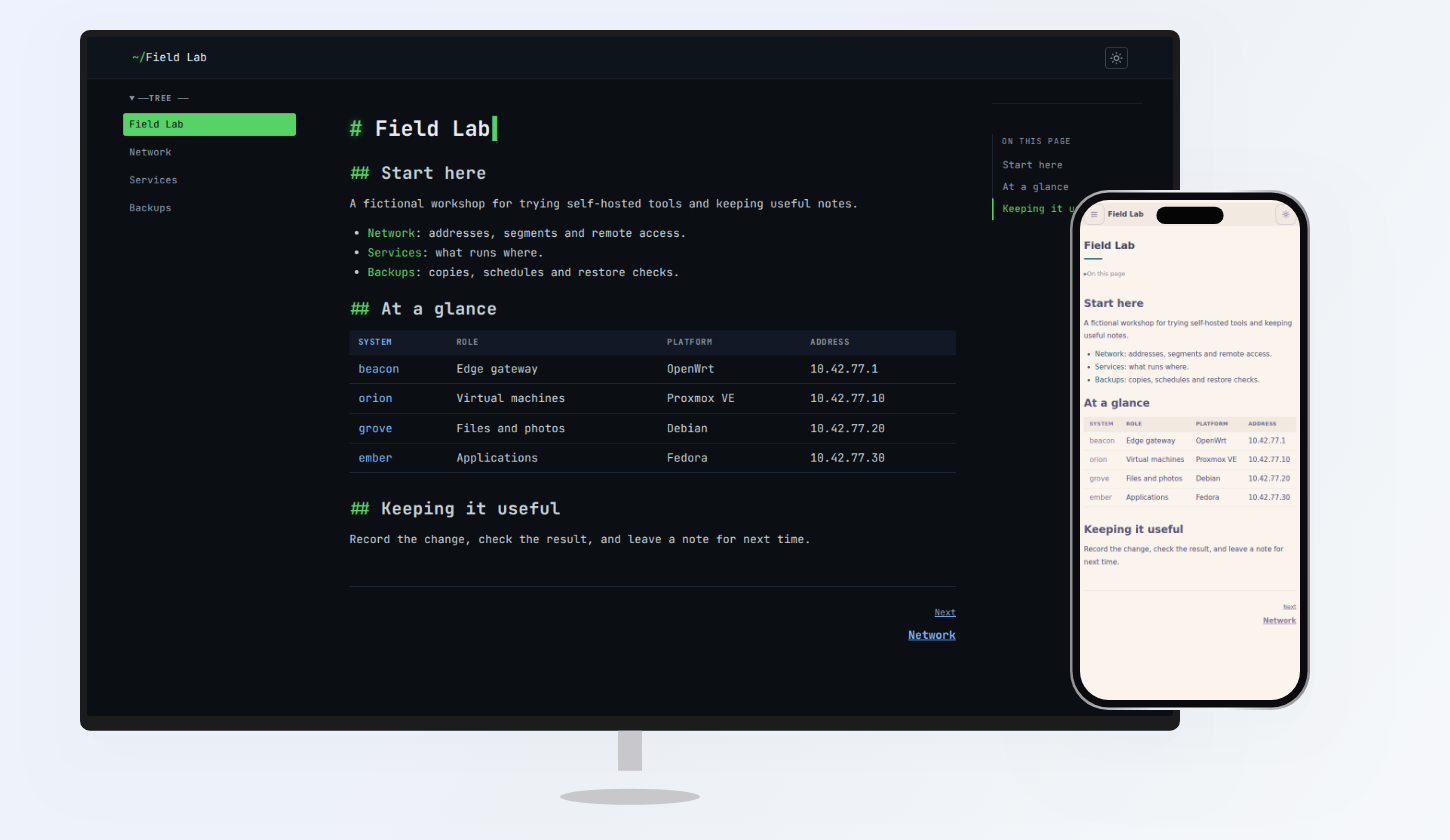
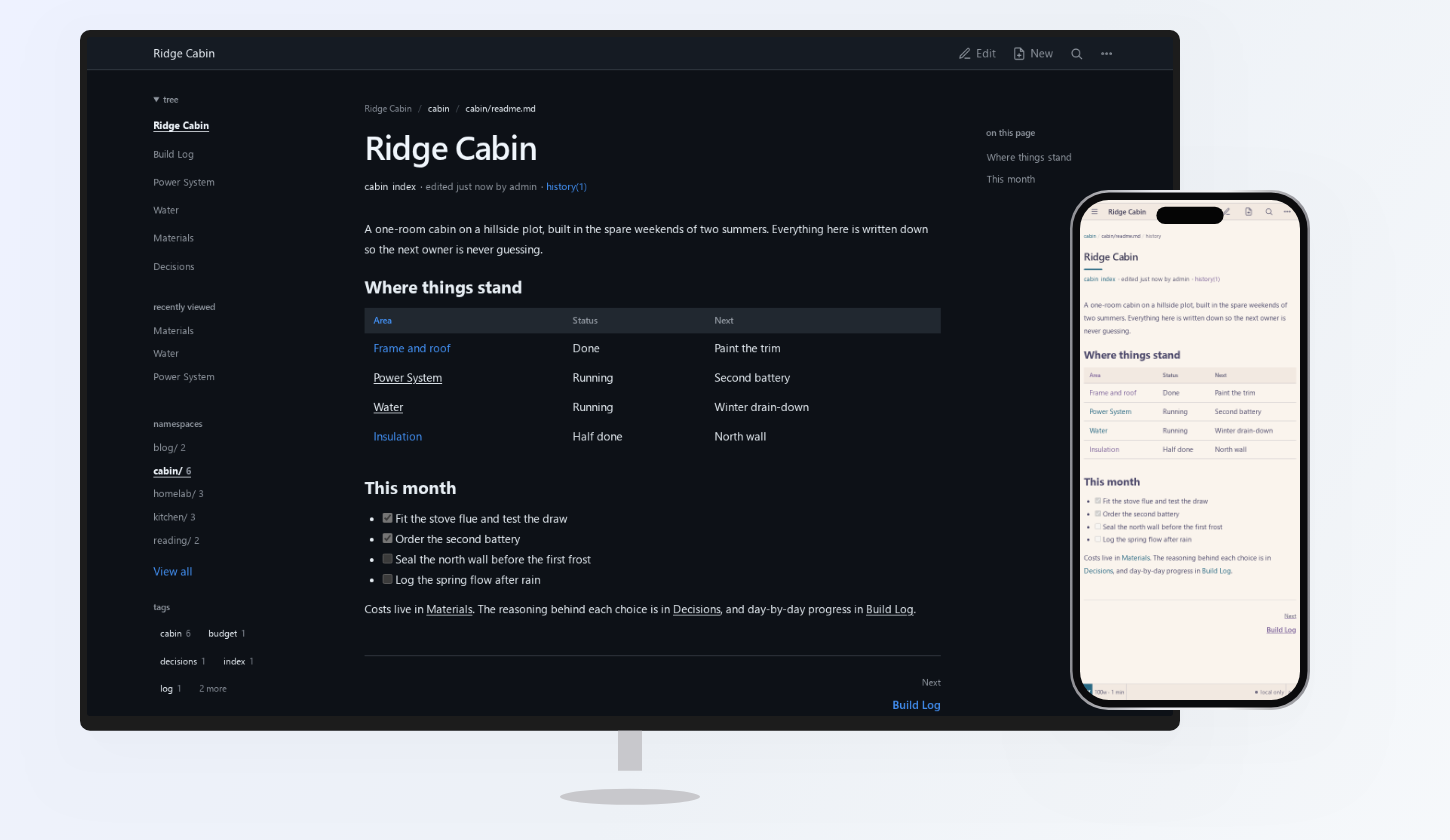
doc: readme demo and tagline (#85)

diff --git a/README.md b/README.md
@@ -1,13 +1,15 @@
 # Hold My Docs
 
-**A self-hosted, Git-backed wiki for documentation, knowledge bases, and agent memory.**
+**A wiki that gets on with it.**
 
 Hold My Docs (HMD) runs as a single Go binary and keeps your content as Markdown in an ordinary Git repository. Every save is a commit, so your docs have real history and can sync to a remote you already use.
 
-<img src="docs/hero.png" width="860" alt="A fictional Field Lab wiki in HMD, shown on a dark desktop monitor beside a phone using the soft skin in light mode">
+<img src="docs/hero.png" width="860" alt="A fictional Ridge Cabin wiki in HMD, shown on a dark desktop monitor in the default skin beside a phone using the soft skin in light mode">
 
 > [!WARNING]
 > Hold My Docs is an early-stage project. Expect rough edges and breaking changes. Keep backups and test upgrades before relying on it as your only source for important documentation.
+
+<img src="docs/demo.webp" width="860" alt="HMD demo with a fictional wiki: a new page is typed and saved, five namespaces appear in the bare, phosphor, newsprint, journal and soft skins, then the wiki is shown on a desktop monitor and a phone">
 
 ## Features
 
@@ -47,12 +49,6 @@ HMD_ADMIN_USER=admin HMD_ADMIN_PASSWORD='use-a-unique-password-of-at-least-12-ch
 ```
 
 Keep `HMD_APP_DIR` on local disk (not NFS); `HMD_SERVER_REPO_DIR` can be on network storage.
-
-## Screenshots
-
-<img src="docs/demo.gif" width="860" alt="HMD walkthrough: a fictional Field Lab wiki, a Mermaid network diagram, services, the write-first Markdown editor, search, namespace settings, tags, and public notes in the light newsprint skin">
-
-More screenshots are in [`docs/screenshots/`](docs/screenshots/).
 
 ## Documentation
 
